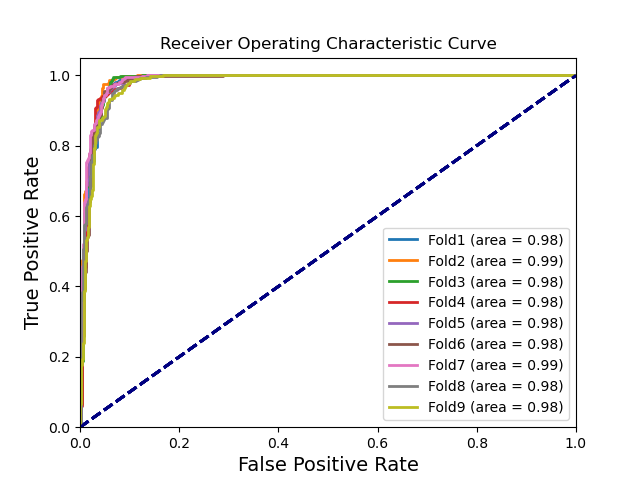
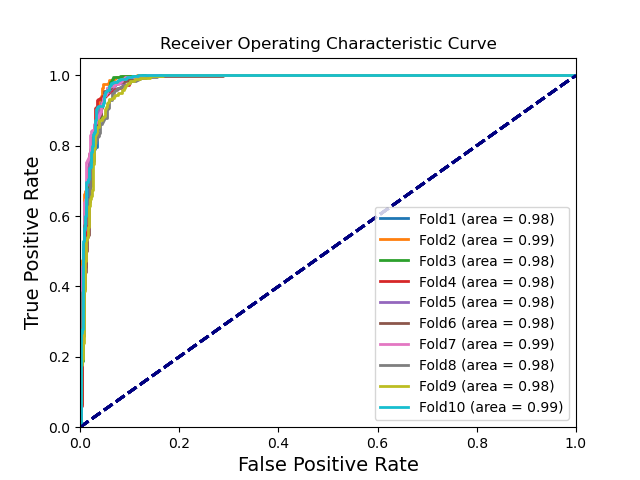
D3SimilarityV2.0

Changed region(s): [[0.5938, 0.4062, 0.875, 0.875], [0.1562, 0.1562, 0.875, 0.2188], [0.125, 0.2188, 0.1562, 0.7188]]

diff --git a/train/common_space/D3similarity/main.py b/train/common_space/D3similarity/main.py
@@ -47,7 +47,7 @@ def train_common_model(config,helper,model,hetrdataset,repeat_nums,flod_nums):
 
         #end a epech
         print("the loss of common model epoch[%d / %d]:is %4.f, time:%d s" % (e+1,config.common_epochs,common_loss,time.time()-begin_time))
-        return common_loss
+    return common_loss.item()
 
 def train_predict_model(config,helper,predict_model,common_model,hetrdataset,repeat_nums,flod_nums):
 
@@ -105,7 +105,7 @@ def train_predict_model(config,helper,predict_model,common_model,hetrdataset,rep
             #评估模型
         loss, pre_all, lab_all = evaluation_model(config, helper, predict_model, common_model, hetrdataset, repeat_nums, flod_nums)
 
-        return epoch_loss, loss, pre_all, lab_all
+    return epoch_loss.item(), loss, pre_all, lab_all
 
 def evaluation_model(config,helper,predict_model,common_model,hetrdataset,repeat_nums,flod_nums):
     predict_model.eval()
@@ -142,7 +142,7 @@ def evaluation_model(config,helper,predict_model,common_model,hetrdataset,repeat
     print("the total_loss of test model:is %4.f, time:%d s" % (loss, time.time() - begin_time))
     print("avg_acc:",np.mean(avg_acc),"avg_aupr:",np.mean(avg_aupr))
 
-    return loss, pre_all, lab_all
+    return loss.item(), pre_all, lab_all
 
 if __name__=='__main__':
 
@@ -163,7 +163,7 @@ if __name__=='__main__':
         for j in range(config.fold_nums):
             print(" crossfold:", str(j), "----------------------------")
             if not os.path.exists('./results/result_' + str(j) + "/"):
-                os.mkdirs('./results/result_' + str(j) + "/")
+                os.makedirs('./results/result_' + str(j) + "/")
             #initial presentation model
             c_model = Common_model(config)
             p_model = Predict_model()
@@ -177,13 +177,37 @@ if __name__=='__main__':
                 common_loss = train_common_model(config,helper,c_model,hetrdataset,i,j)
                 predict_loss, val_loss, pre_all, lab_all = train_predict_model(config,helper,p_model,c_model,hetrdataset,i,j)
                 loss_rt = loss_rt + str(common_loss) + "," + str(predict_loss) + "," + str(val_loss) + "\n"
+                print(str(common_loss) + "," + str(predict_loss) + "," + str(val_loss) + "\n")
             with open('./results/result_' + str(j) + "/" + "all_loss_" + str(j) + ".csv","w") as rt:
                 rt.write(loss_rt)
             pre_lab = "y_pre,y_lab\n"
-            for i in range(len(pre_all)):
-                pre_lab = pre_lab + str(pre_all[i]) + "," + str(lab_all[i]) + "\n"
+            # for i in range(len(pre_all)):
+            #     pre_lab = pre_lab + str(pre_all[i]) + "," + str(lab_all[i]) + "\n"
+            for qq in range(len(pre_all)):
+                a = pre_all[qq].tolist()
+                b = lab_all[qq].tolist()
+                for m in range(len(a)):
+                    pre_lab = pre_lab + str(a[m]) + "," + str(b[m]) + "\n"
             with open('./results/result_' + str(j) + "/" + "pre_lab_" + str(j) + ".csv","w") as rt:
                 rt.write(pre_lab)
+
+            # with open('./results/result_' + str(j) + "/" + "all_loss_" + str(j) + ".csv","w") as rt:
+            #     rt.write("model_loss,predict_loss,val_loss\n")
+            #     for epoch in range(config.num_epochs):
+            #         print("         epoch:",str(epoch),"zzzzzzzzzzzzzzzz")
+            #         common_loss = train_common_model(config,helper,c_model,hetrdataset,i,j)
+            #         predict_loss, val_loss, pre_all, lab_all = train_predict_model(config,helper,p_model,c_model,hetrdataset,i,j)
+            #         rt.write(str(common_loss) + "," + str(predict_loss) + "," + str(val_loss) + "\n")
+            #         print(str(common_loss) + "," + str(predict_loss) + "," + str(val_loss) + "\n")
+            #     pre_lab = "y_pre,y_lab\n"
+            #     for i in range(len(pre_all)):
+            #         a = pre_all[i].tolist()
+            #         b = lab_all[i].tolist()
+            #         for m in range(len(a)):
+            #             pre_lab = pre_lab + str(a[m]) + "," + str(b[m]) + "\n"
+            #     with open('./results/result_' + str(j) + "/" + "pre_lab_" + str(j) + ".csv","w") as rt:
+            #         rt.write(pre_lab)
+
 
     print("Done!")
     print("All_training time:",time.time()-model_begin_time)

diff --git a/train/Deep/logistic/DeepPurpose_DeepPurpose_outtest/auc_val/auc_val.py b/train/Deep/logistic/DeepPurpose_DeepPurpose_outtest/auc_val/auc_val.py
@@ -33,7 +33,7 @@ def ro_curve(y_pred, y_label, figure_file, method_name):
     return 
 
 def col_pic():
-    for i in range(9):
+    for i in range(10):
         y_label = []
         y_pred = []
         with open("y_label_pred_val_" + str(i) + ".csv") as f:

diff --git a/train/Deep/logistic/DeepPurpose_DeepPurpose_outtest/auc_test/auc_test.py b/train/Deep/logistic/DeepPurpose_DeepPurpose_outtest/auc_test/auc_test.py
@@ -33,7 +33,7 @@ def ro_curve(y_pred, y_label, figure_file, method_name):
     return 
 
 def col_pic():
-    for i in range(9):
+    for i in range(10):
         y_label = []
         y_pred = []
         with open("y_label_pred_" + str(i) + ".csv") as f:
